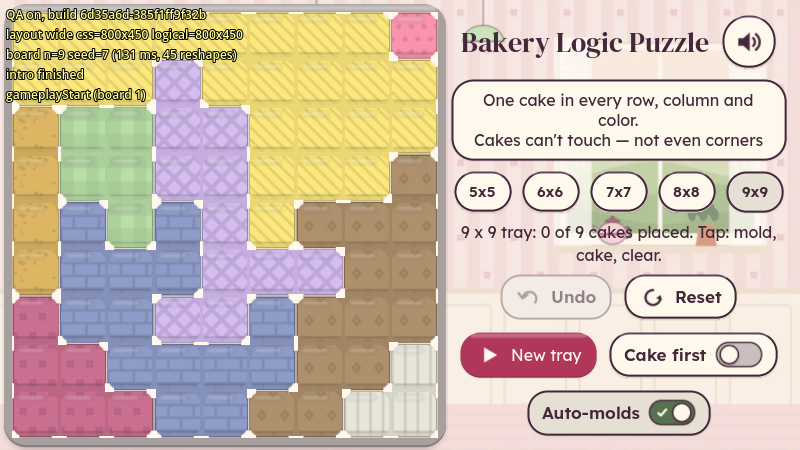
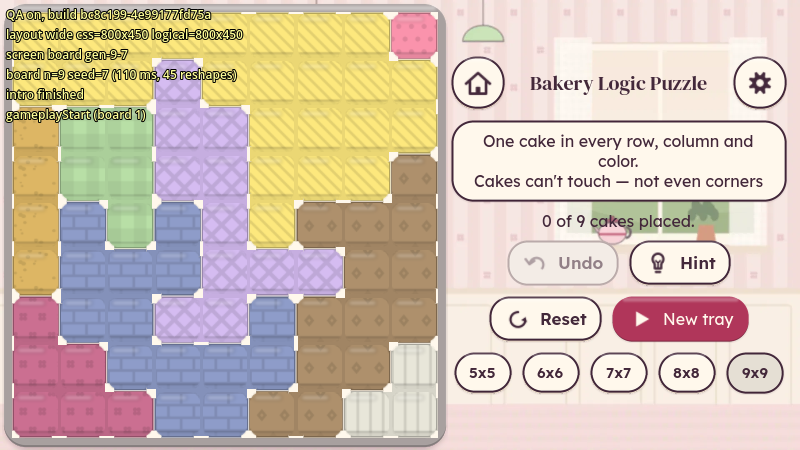
CURRENT_BUILD: thin-slice freeze prep (recreated after the 12:27 box rollback; was 97c4941): QA Day-0 PASS row as QA wrote it, size 38.71 MB / slim 25.35 MB; layout shots incl. Home / Recipe Book / chapter end

Changed region(s): [[0.5625, 0.0311, 1.0, 0.9956], [0.0, 0.0933, 0.3125, 0.28], [0.0938, 0.0, 0.2812, 0.0622]]

diff --git a/CURRENT_BUILD.md b/CURRENT_BUILD.md
@@ -4,7 +4,7 @@ The single "what is current" pointer for this game. Every bot reads this before 
 SM owns the State line; `ci/run.sh` fills in "Last CI"; QA fills in Verdict; PO fills in Portal. Times are Asia/Jerusalem.
 
 ## State
-**State:** active · Stage: 2 Day-0 skeleton, **gated local build frozen for TT QA** (local only; no repo, no Pages, no push) · Updated: 2026-11-01 12:05 Asia/Jerusalem, TT Godot Build (Day-0 re-freeze: D0-05, D0-23)
+**State:** active · Stage: 3 thin slice (tutorial + chapters 1-2), **gated local build frozen for TT QA** (local only; no repo, no Pages, no push) · Updated: 2026-11-01 12:40 Asia/Jerusalem, TT Godot Build (re-freeze after the 12:27 box rollback)
 
 ## Gated build (what QA is testing / has passed)
 This file is committed IN the frozen commit, so the commit cannot name its own sha or the export hashes (the export embeds the
@@ -12,14 +12,14 @@ commit sha and the pck is not byte-reproducible across exports). The frozen comm
 (the day-0 re-freeze commit); its sha, the pck/zip md5+sha256 and the folder are in the gate folder's FREEZE.md.
 | Field | Value |
 |---|---|
-| Commit | see FREEZE.md (the day-0 re-freeze commit on branch `day0-fix`, after 457c753; built from a clean clone) |
-| Gate folder | see FREEZE.md (`/workspace/tea-and-tarts-gates/day0-` + the frozen short sha; read-only; contains the frozen Web Release dir + SHA256SUMS, `web-debug/`, the CG zip + .md5/.sha256, `GATE_PACKET.md`, changelog, `FREEZE.md`) |
+| Commit | see FREEZE.md (the thin-slice freeze commit on `main`, after the Day-0 re-freeze ed57fce merge 3211af6; built from a clean clone) |
+| Gate folder | see FREEZE.md (`/workspace/tea-and-tarts-gates/thin-` + the frozen short sha; read-only; contains the frozen Web Release dir + SHA256SUMS, `web-debug/`, the CG zip + .md5/.sha256, `GATE_PACKET.md`, `d023_check.txt`, changelog, slim variant, `FREEZE.md`) |
 | Built from | a clean `git clone` checked out at that commit (`ci/run.sh --gate`, slug from ./SLUG = tea-bakery) |
 | index.pck sha256 | see FREEZE.md (also SHA256SUMS in the frozen release dir and GATE_PACKET.md; sha256 authoritative, md5 cross-check) |
-| Release size | 39.16 MB raw on the stock template (index.wasm 35.38 MB, gz 8.00 MB; index.pck 3.39 MB; exact bytes in FREEZE.md / SIZE.json) vs 20 MB budget: OVER. Slim variant (PKD slim template, not default): 25.80 MB raw (wasm 22.05 MB). Day-0 D0-09 only requires reporting it. **20 MB is a HARD gate at Portal-kit exit.** |
+| Release size | 38.71 MB raw on the stock template (index.wasm 35.38 MB, gz 8.00 MB; index.pck 2.98 MB, of which the 8 unused cake sprites excluded saved 0.40 MB; exact bytes in FREEZE.md / SIZE.json) vs 20 MB budget: OVER. Slim variant (PKD slim template, not default): 25.35 MB raw (wasm 22.05 MB). **20 MB is a HARD gate at Portal-kit exit.** |
 | Engine template | **stock** Godot 4.3 web template (default). PKD slim template from Pipeline Ops measured as a variant only |
 | SPEC | v1.0.1 (git 99e0b39): mold terminology, tap order + cake-first setting, no-op analytics, TT-AC-53 zero game network calls, ads 300 s floor + 180 s gap |
-| QA verdict | 2026-11-01 12:10 Asia/Jerusalem · `457c753` (code `6cf5b9b`) · local **FAIL**: D0-05, D0-23 · live not run · `/workspace/tea-and-tarts-qa/results/457c753/QA_VERDICT.md` |
+| QA verdict | 2026-11-01 12:25 Asia/Jerusalem · `ed57fce` · local **PASS** (0 FAIL) · live not run (pending repo) · `/workspace/tea-and-tarts-qa/results/ed57fce/QA_VERDICT.md` |
 
 ## Live
 | Field | Value |
